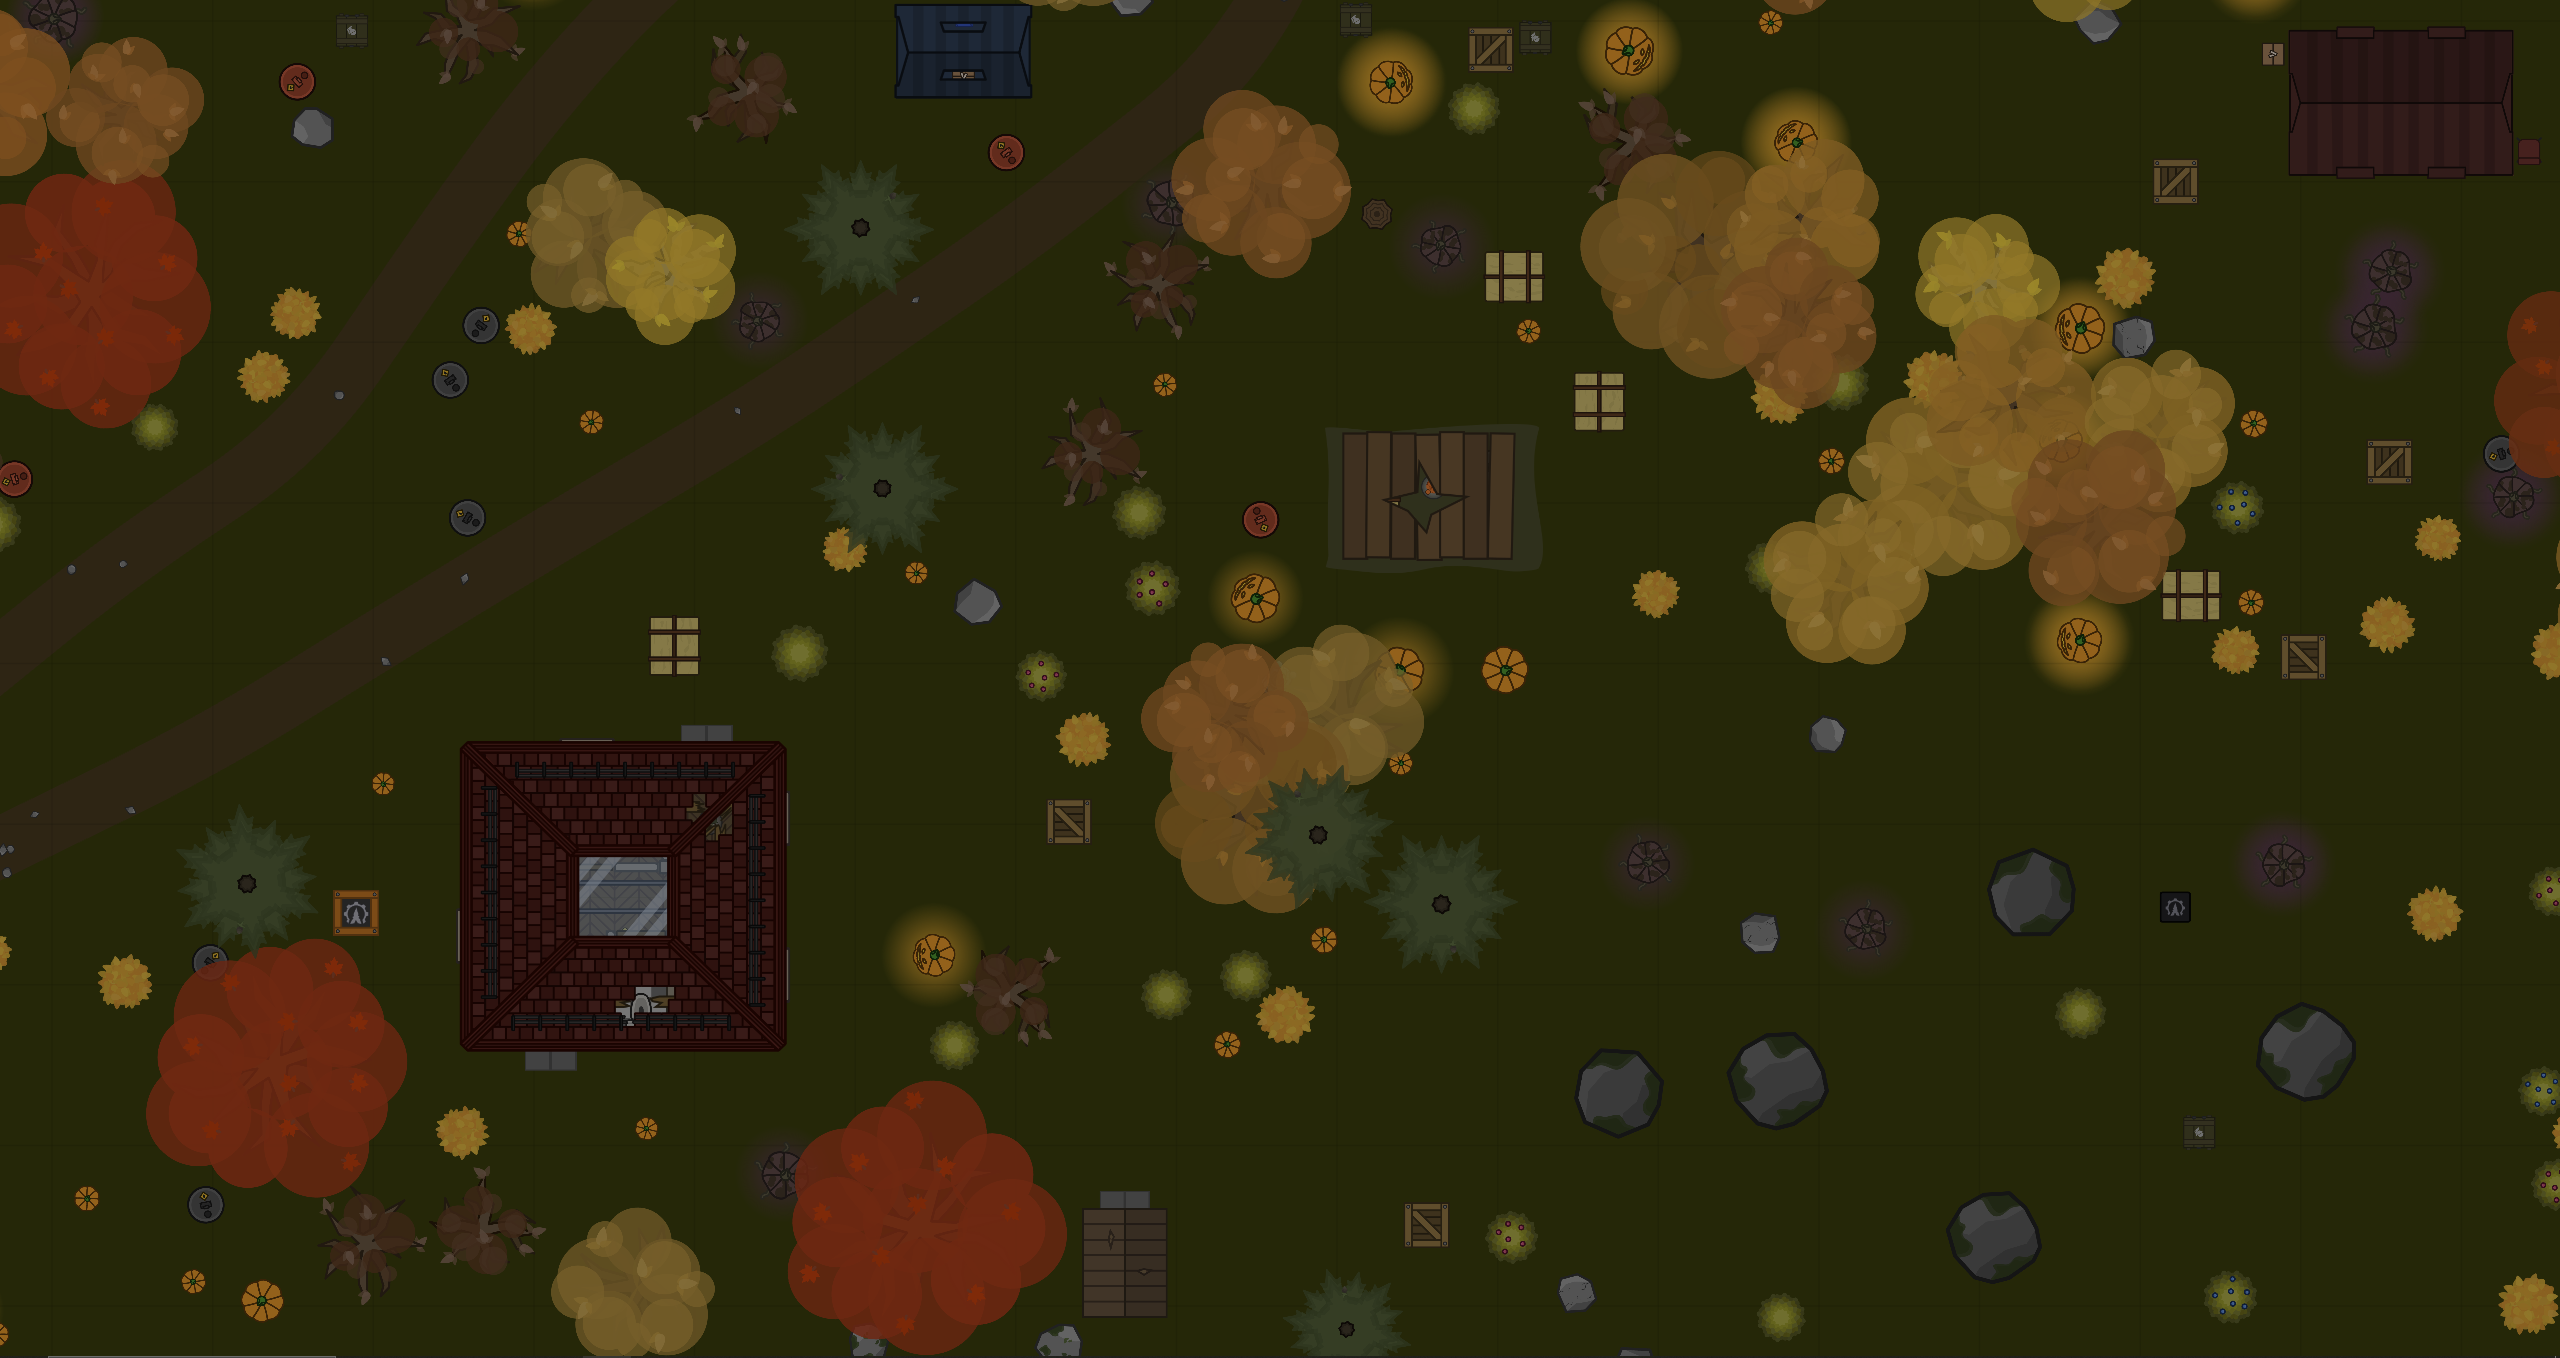
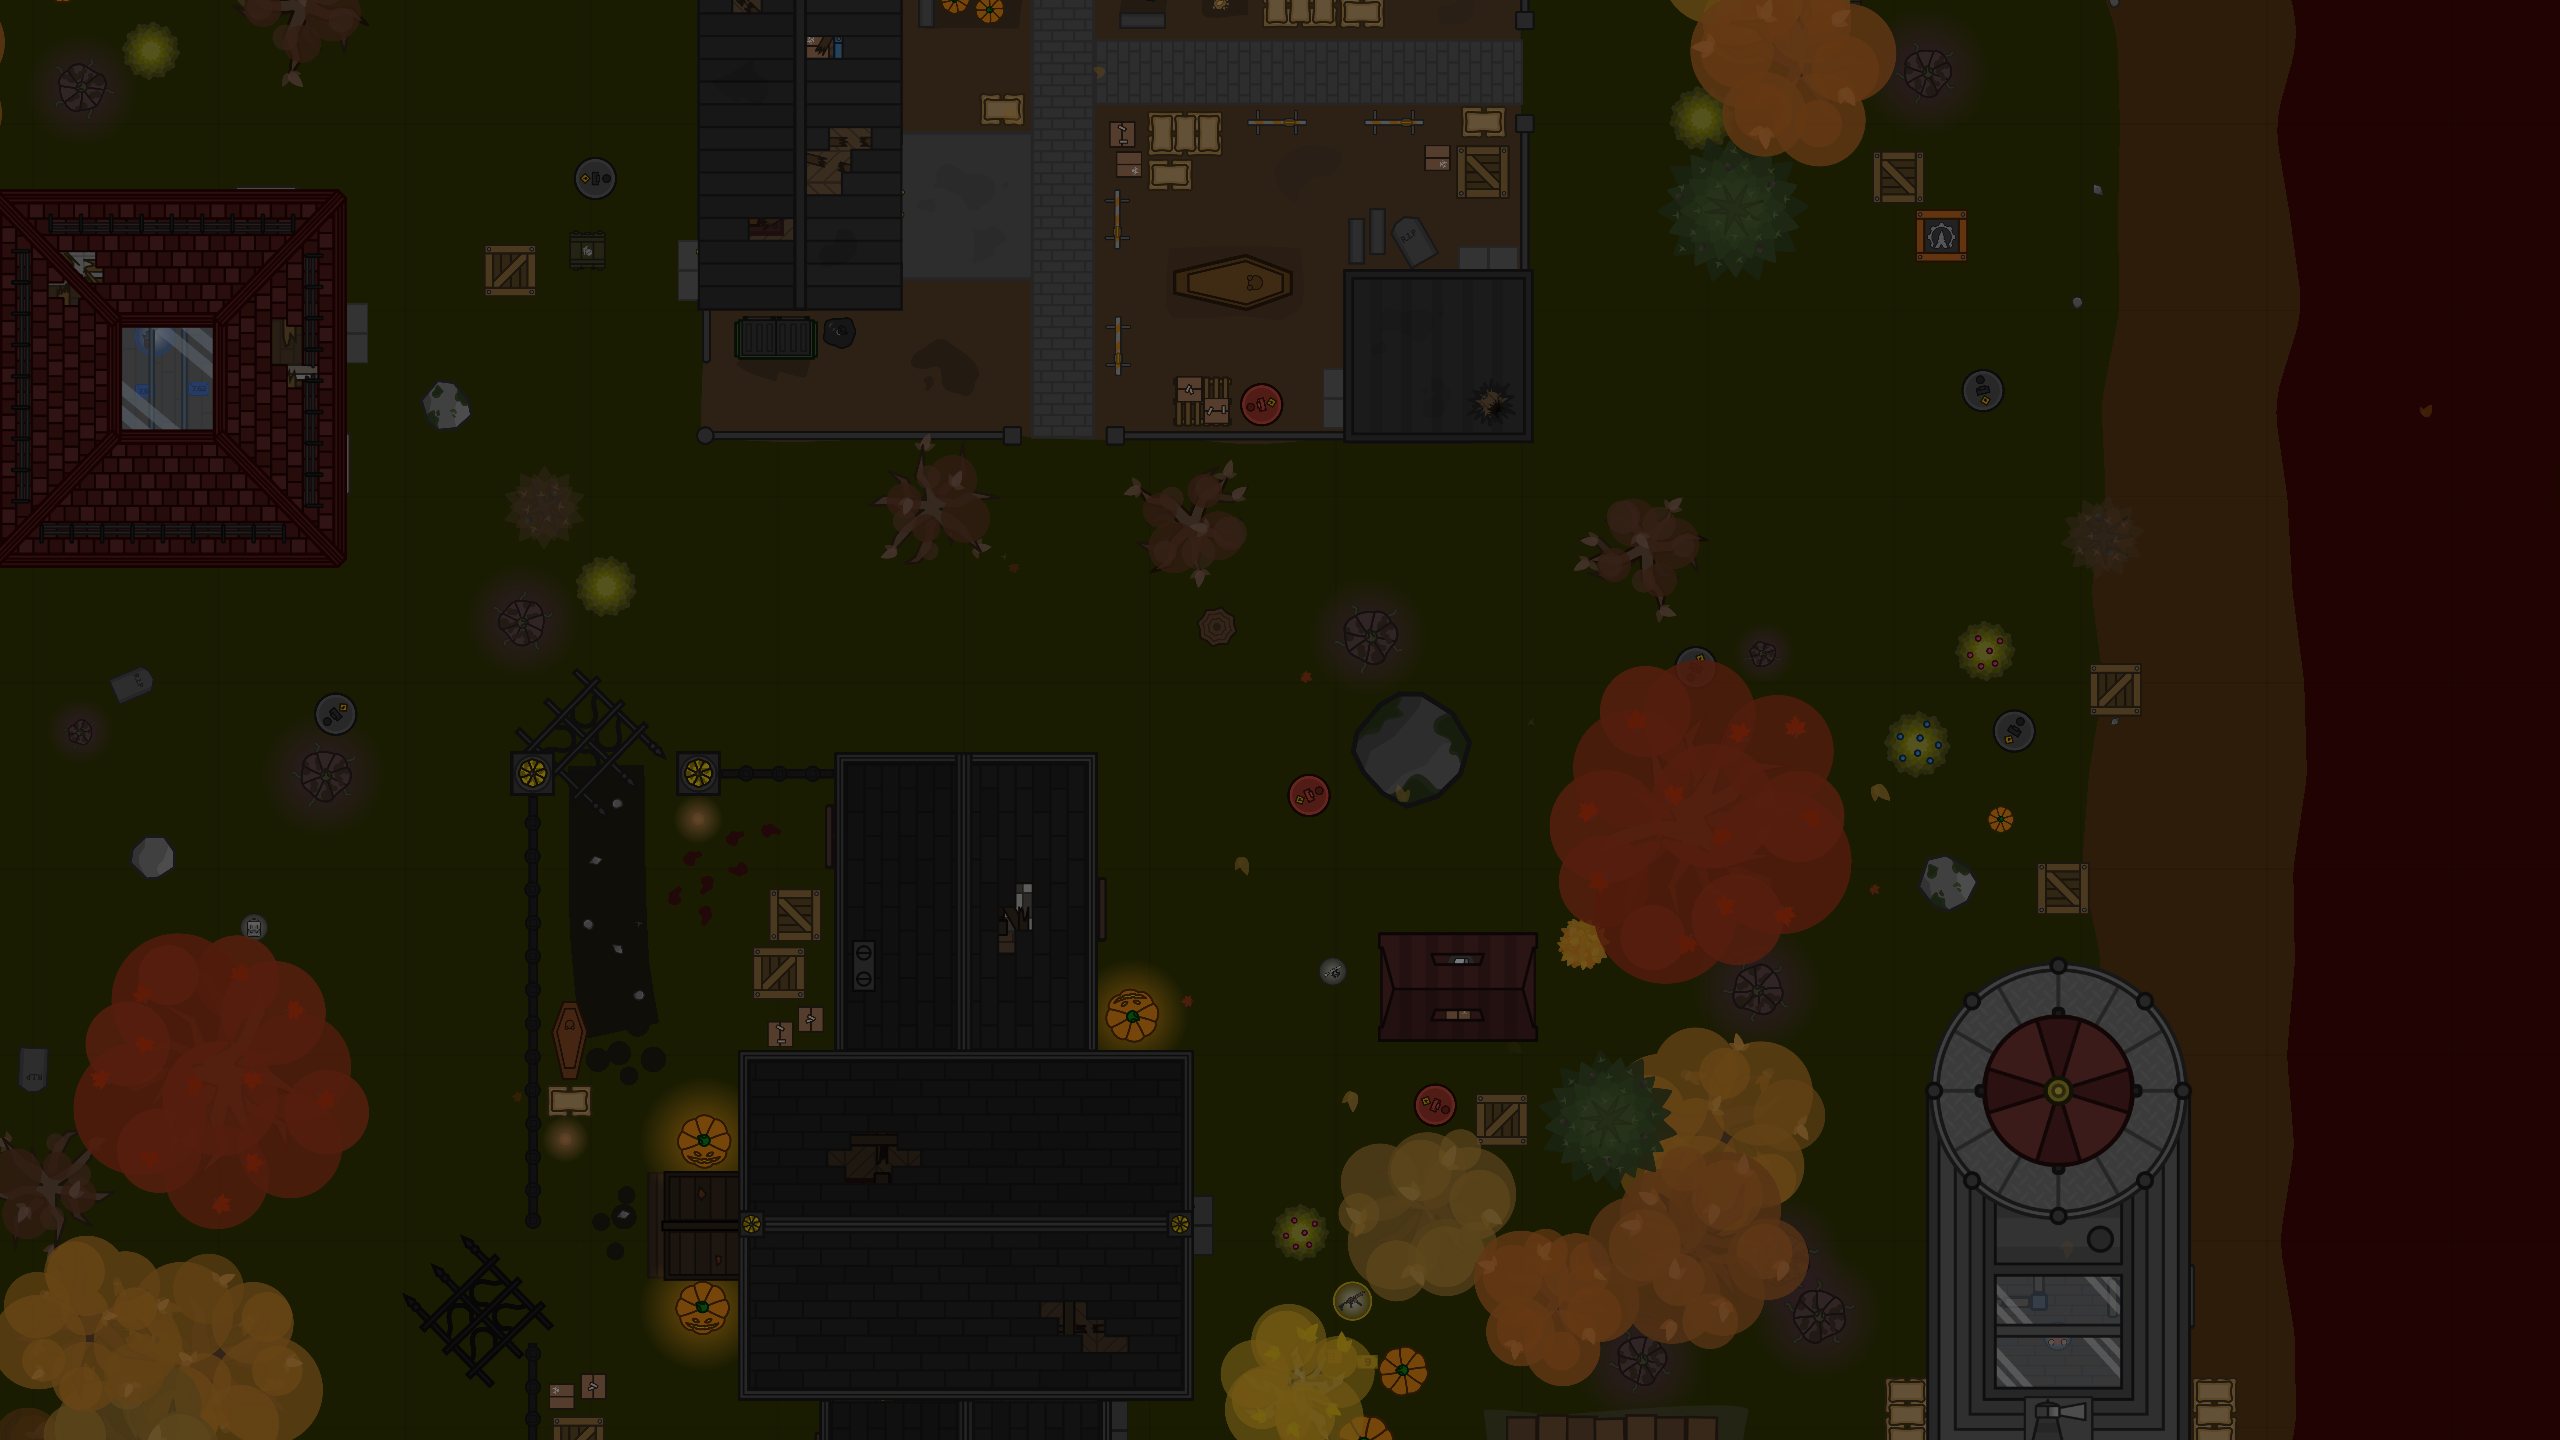
feat: v0.30.0

diff --git a/client/changelog/index.html b/client/changelog/index.html
@@ -28,34 +28,36 @@
 <body>
   <pre>
 # Changelog
-v0.30.0 - [RELEASE_DATE]
-- Added new guns: ulr-338 .338 lapua magnum sniper rifle, dp-12 double barreled pump-action shotgun, (aged) seedshot variant.
-- Added new skins: overgrown, haunted, failed experiment, demon, wounded (halloween mode only).
-- Added new melee: scythe (halloween mode only).
-- Added new perks: plumpkin shuffle, last stand, enternal magnetism, aching knees, plumpkin's blessing (hallowen mode only).
-- Added new buildings: park, mansion (halloween mode only).
-- Added new obstacle: golden pumpkin, urn, chainsaw mount, scythe mount, vks gun mount, pumpkin airdrop, gravestone.
-- Added new obstacles to the costumed perk list.
-- Added killfeed images for chainsaw and steelfang melees.
-- Added a new vomit decal for the rotten plumpkin perk.
-- Added new melee variations for sickle (vaibhav), hatchet (bloodstained), hand saw (tenon saw), chainsaw (leatherfaced) and crowbar (rusted, halloween) melees.
-- Rebalanced the chainsaw, it's no longer a developer weapon.
+v0.30.0 - [10/30/2025]
+- **Halloween mode rework!** The Halloween map and its loot tables have been reworked.
+- **New guns!**
+  - **ULR-338**: A powerful single-shot sniper chambered in .338 Lapua Magnum.
+  - **DP-12**: A double barreled pump-action shotgun.
+  - **Aged Seedshot**: A new variant of the Seedshot.
+- **New buildings!** Added the **Park** and **Mansion**. Halloween exclusive.
+- **New melees!** Added the **Scythe** and **Chainsaw**, both Halloween exclusive. Previously a dev only weapon, the Chainsaw has been rebalanced as a normal weapon.
+- **New perks!** Added Plumpkin Shuffle, Last Stand, Eternal Magnetism, Aching Knees, and Plumpkin's Blessing. All Halloween exclusive.
+- **New skins!** Added Overgrown, Haunted, Failed Experiment, Demon, and Wounded. All Halloween exclusive.
 - Replaced the PP-19 Vityaz with the PP-19 Bizon.
-- Reworked the halloween map and it's loot tables.
-- Reworked combat expert, it now gives a faster reload only when the active weapon is empty.
-- Reworked the loot baron perk image.
-- Fixed an issue where laced stimulants would damage the player without having adrenaline on.
-- Fixed issues with the overclocked perk and burst-type weapons.
-- Fixed an issue where close quarters combat perk's effect would apply around dead players.
-- Fixed an issue where the advanced athletics perk would provide a permament speedboost with the shrouded perk equipped.
-- Berserker perk's multipliers no longer apply with the lycanthropy perk equipped.
-- Slightly nerfed the overclocked perk.
-- Added a new summoning sound effect to the werewolf perk.
+- Added variations for Sickle (Vaibhav), Hatchet (Bloodstained), Hand Saw (Tenon Saw), Chainsaw (Leatherfaced) and Crowbar (Rusted, Halloween) melees.
+- New obstacles: golden pumpkin, urn, chainsaw mount, scythe mount, vks gun mount, pumpkin airdrop, gravestone.
+- Added new obstacles to possible disguises for the Costumed perk.
+- Added killfeed images for Chainsaw and Steelfang melees.
+- Added a vomit decal for the Rotten Plumpkin perk.
+- Reworked Combat Expert perk. It now gives a faster reload only when the active weapon is empty.
+- Reworked Loot Baron perk image.
+- Fixed Laced Stimulants perk damaging the player without adrenaline.
+- Fixed issues with the Overclocked perk and burst-type weapons.
+- Fixed Close Quarters Combat perk effect applying around dead players.
+- Fixed Advanced Athletics perk providing a permanent speed boost with the Shrouded perk equipped.
+- Berserker perk's multipliers no longer apply with the Lycanthropy perk equipped.
+- Slightly nerfed the Overclocked perk.
+- Added a new summoning sound effect to the Lycanthropy perk.
 - Werewolves can no longer pick up armor, instead they have a level 1 vest equipped by force that cannot be dropped.
 - Disguises now hide equipment.
 - Updated PSM loot image.
-- Improved the perk description translations, mostly for perks with durations such as baby plumpkin pie, torn pockets, experimental forcefield, immunity or infected.
-- Barrel, super barrel and stove disguises now emit smoke particles when the player is at low health.
+- Improved perk description translations, mostly for perks with durations such as Baby Plumpkin Pie and Experimental Forcefield.
+- Barrel, Super Barrel and Stove disguises now emit smoke particles when the player is at low health.
 
 v0.29.1 - [9/21/2025]
 - **New gun!** Added the **TTK Esaul**, a powerful 5.45mm revolver.

diff --git a/common/src/constants.ts b/common/src/constants.ts
@@ -7,7 +7,7 @@ const inventorySlotTypings = Object.freeze([DefinitionType.Gun, DefinitionType.G
 export const GameConstants = {
     // !!!!! NOTE: Increase this every time a byte stream change is made between latest release and master
     // or a new item is added to a definition list
-    protocolVersion: 69,
+    protocolVersion: 70,
     tps: 40,
     gridSize: 32,
     maxPosition: 1924,

diff --git a/client/src/newsPosts/v0.21.0-/v0.30.0.md b/client/src/newsPosts/v0.21.0-/v0.30.0.md
@@ -1,0 +1,37 @@
+---
+title: Spooky Season
+author: HAZEL
+date: October 30, 2025
+---
+This fall, **Halloween** mode makes its long-awaited return, bringing plenty of new content and fixes. Explore the **Mansion** and **Park**. Obliterate your enemies with the powerful **ULR-338** sniper, or slash them with the **Scythe**. Get better loot drops with the **Plumpkin's Blessing** perk. All this and more can be found in the newly reworked Halloween mode.
+***
+# Suroi v0.30.0
+- **Halloween mode rework!** The Halloween map and its loot tables have been reworked.
+- **New guns!**
+  - **ULR-338**: A powerful single-shot sniper chambered in .338 Lapua Magnum.
+  - **DP-12**: A double barreled pump-action shotgun.
+  - **Aged Seedshot**: A new variant of the Seedshot.
+- **New buildings!** Added the **Park** and **Mansion**. Halloween exclusive.
+- **New melees!** Added the **Scythe** and **Chainsaw**, both Halloween exclusive. Previously a dev only weapon, the Chainsaw has been rebalanced as a normal weapon.
+- **New perks!** Added Plumpkin Shuffle, Last Stand, Eternal Magnetism, Aching Knees, and Plumpkin's Blessing. All Halloween exclusive.
+- **New skins!** Added Overgrown, Haunted, Failed Experiment, Demon, and Wounded. All Halloween exclusive.
+- Replaced the PP-19 Vityaz with the PP-19 Bizon.
+- Added variations for Sickle (Vaibhav), Hatchet (Bloodstained), Hand Saw (Tenon Saw), Chainsaw (Leatherfaced) and Crowbar (Rusted, Halloween) melees.
+- New obstacles: golden pumpkin, urn, chainsaw mount, scythe mount, vks gun mount, pumpkin airdrop, gravestone.
+- Added new obstacles to possible disguises for the Costumed perk.
+- Added killfeed images for Chainsaw and Steelfang melees.
+- Added a vomit decal for the Rotten Plumpkin perk.
+- Reworked Combat Expert perk. It now gives a faster reload only when the active weapon is empty.
+- Reworked Loot Baron perk image.
+- Fixed Laced Stimulants perk damaging the player without adrenaline.
+- Fixed issues with the Overclocked perk and burst-type weapons.
+- Fixed Close Quarters Combat perk effect applying around dead players.
+- Fixed Advanced Athletics perk providing a permanent speed boost with the Shrouded perk equipped.
+- Berserker perk's multipliers no longer apply with the Lycanthropy perk equipped.
+- Slightly nerfed the Overclocked perk.
+- Added a new summoning sound effect to the Lycanthropy perk.
+- Werewolves can no longer pick up armor, instead they have a level 1 vest equipped by force that cannot be dropped.
+- Disguises now hide equipment.
+- Updated PSM loot image.
+- Improved perk description translations, mostly for perks with durations such as Baby Plumpkin Pie and Experimental Forcefield.
+- Barrel, Super Barrel and Stove disguises now emit smoke particles when the player is at low health.
